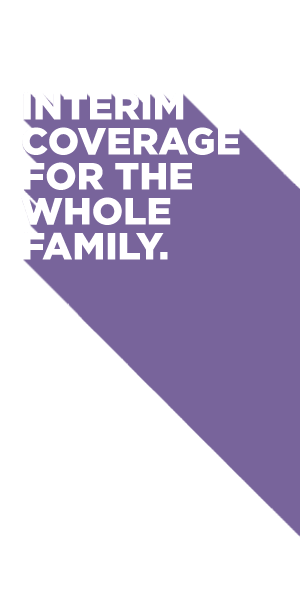
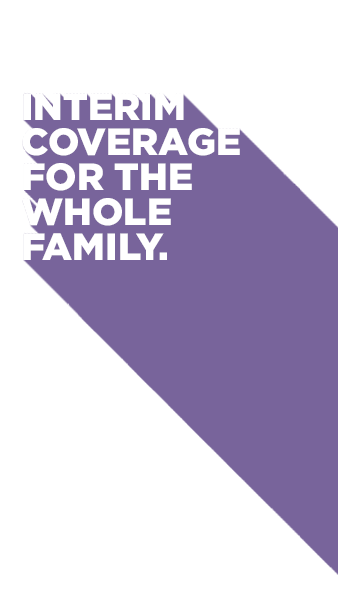
changed images

Changed region(s): [[0.06, 0.15, 1.0, 0.96]]

diff --git a/DD_With_Family_300x600/index.html b/DD_With_Family_300x600/index.html
@@ -53,18 +53,56 @@
             width: 300px;
             height: 600px;
             overflow:hidden;
-            opacity: 1;
             background:url('./images/background_purple.jpg') no-repeat;
             background-size: 300px 600px;
             background-position:0px 0px;
             background-color: #6f8db3;
         }
 
-        .dd_logo, .dd_button {
+        .dd_logo {
             position: absolute;
             top: 0;
             left: 0;
             width: 300px;
+            height: 600px;
+            border:0;
+        }
+
+        .dd_button {
+            position: absolute;
+            top: 0;
+            left: 0;
+            width: 300px;
+            height: 600px;
+            overflow:hidden;
+            cursor: pointer;
+            z-index: 18;
+        }
+
+        .grow_button {
+            position: absolute;
+            top: 0;
+            left: 0;
+            width: 300px;
+            height: 600px;
+            overflow:hidden;
+            transition: transform .25s ease;
+            background:url('./images/get_a_quote_purple_300x600_2x.png') no-repeat;
+            background-size: 300px 600px;
+            background-position:0px 0px;
+        }
+
+        .grow_button:hover, .grow_button:active {
+            -webkit-transform: scale(1.1); 
+            -ms-transform: scale(1.1); 
+            transform: scale(1.1) translate(4%, 0); 
+        }
+
+        .copy_shadow {
+            position: absolute;
+            top: 0;
+            left: 0;
+            width: 338px;
             height: 600px;
             border:0;
         }
@@ -80,7 +118,7 @@
             left: 0px;
         }
 
-        .exit_1 {
+       /* .exit_1 {
             position: absolute;
             width: 300px;
             height: 600px;
@@ -88,7 +126,7 @@
             top: 0;
             left: 0;
             cursor: pointer;
-        }
+        }*/
 
     </style>
     <script type="text/javascript" charset="utf-8">
@@ -102,6 +140,7 @@
             var copyShadow = document.querySelector('.copy_shadow');
             var ddLogo = document.querySelector('.dd_logo');
             var ddButton = document.querySelector('.dd_button');
+            var ddButton2 = document.querySelector('.grow_button');
             // elements
             var bannerContent = document.querySelector('.banner-content');
 
@@ -113,6 +152,7 @@
                     './images/background_purple.jpg',
                     './images/copy_shadow_purple_300x600.png',
                     './images/dd_logo_w_300x600_2x.png',
+                    './images/get_a_quote_purple_300x600.png',
                     './images/get_a_quote_purple_300x600_2x.png',
                 ];
 
@@ -130,6 +170,7 @@
                     copyShadow.src = images[1];
                     ddLogo.src = images[2];
                     ddButton.src = images[3];
+                    ddButton2.scr = images[4];
                     init();
                }
             }
@@ -144,6 +185,8 @@
                  loop++; 
                 }
 
+
+
          /*    const tl2 = new TimelineMax({paused:true});
              tl2
              .to(tearSVG, .5, {y:20, x:0, ease: Power1.easeOut})
@@ -153,23 +196,27 @@
 
 
           //   TweenMax.set(faceBackground, {scale: 1.4,transformOrigin: "50% 75%"});
-             //TweenMax.set([see_svg, hear_svg, speak_svg, exit2], {autoAlpha:0});
+             TweenMax.set(ddButton2, {autoAlpha:0});
+             TweenMax.set(copyShadow, {rotation:2});
              const tl = new TimelineMax();
 
               tl
+
+
               .from(copyShadow,.6, {y:600, x:500, ease: Sine.easeInOut},'+=.5')
-              .to(copyShadow,1,{ease: Bounce.easeInOut})
-              .from(ddButton,.6, {y:600, x:360, ease: Sine.easeInOut},'-=1')
-              .to(ddButton,1,{ease: Bounce.easeInOut})
-             // .to(ddButton,0.7,{rotation:8})
-              //.to([copyShadow, ddButton],7,{rotation:0,ease:Elastic.easeOut.config(0.9,0.1)});
+              .to(copyShadow,2.5,{rotation:0,ease:Elastic.easeOut.config(0.8,0.1), yoyo: true})
+            //  .to(copyShadow,.5,{rotation:0,ease:Elastic.easeOut.config(0.1,0.5)})
+           //   .to(copyShadow,1,{rotation:0,ease:Elastic.easeOut.config(0.8,0.1), repeat:1, repeatDelay:3})
+              .from(ddButton,.8, {y:600, x:300, ease: Sine.easeInOut},'-=.1')
+              .to(ddButton,.0,{autoAlpha: 0})            
+              .to(ddButton2,.0,{autoAlpha: 1})
+           //   .to(ddButton,1,{rotation:2,ease:Elastic.easeOut.config(0.9,0.1)})
 
             /*  .addCallback(function(){
                 tl2.tweenTo('firstDrop')
               },'-=.5')*/
 
               ;
-
 
               setTimeout(function(){
                  console.log('done');
@@ -186,16 +233,19 @@
 <body>
     <div id="container" class="container b-300x600" style="background-color: #fff;">
         <div class="banner-content">
-            <div class="dot_background">
+            <div class="dot_background"></div>
+
                 <img src="" alt="" class="dd_logo" />
                 <img src="" alt="" class="copy_shadow" />
-                <img src="" alt="" class="dd_button"> 
-            </div>
+                <img src="" alt="Get a quote" class="dd_button" />
+                <div class="grow_button"></div>
+            
         </div><!-- end banner content -->
 
         <div class="banner-border"></div>
-        <a class="exit_1" href="javascript:window.open(window.clickTag1)"></a>
-    </div>
+        <a href="javascript:window.open(window.clickTag1)"></a>
+     </div>
+
         
   </body>
 </html>
